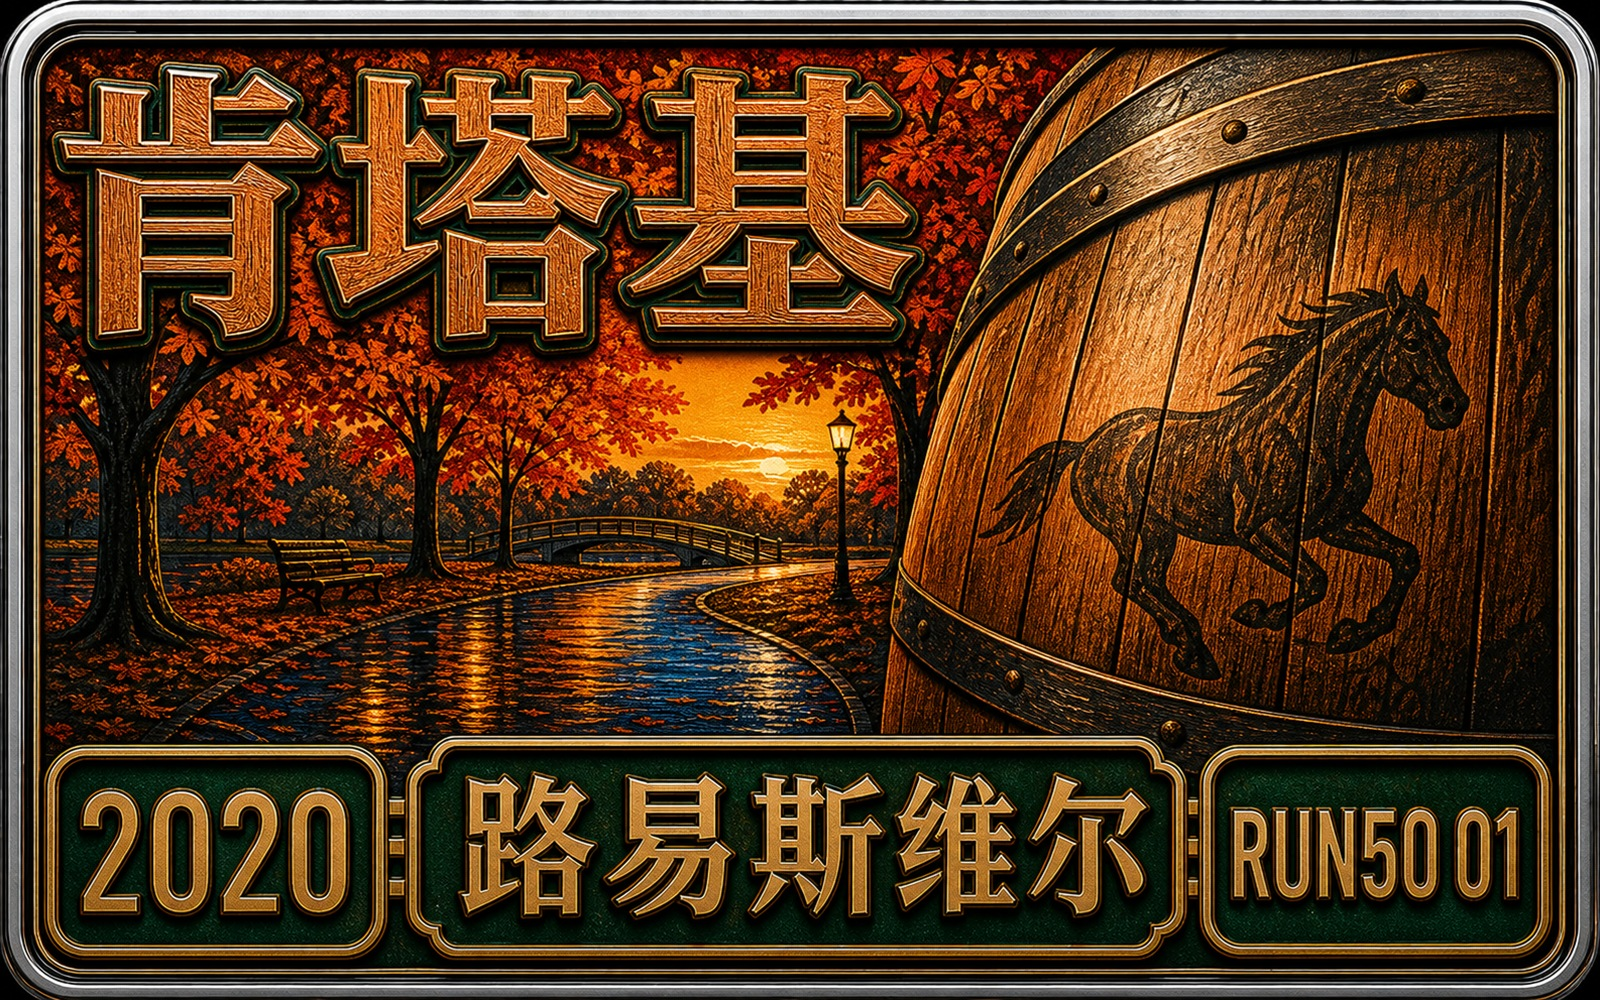
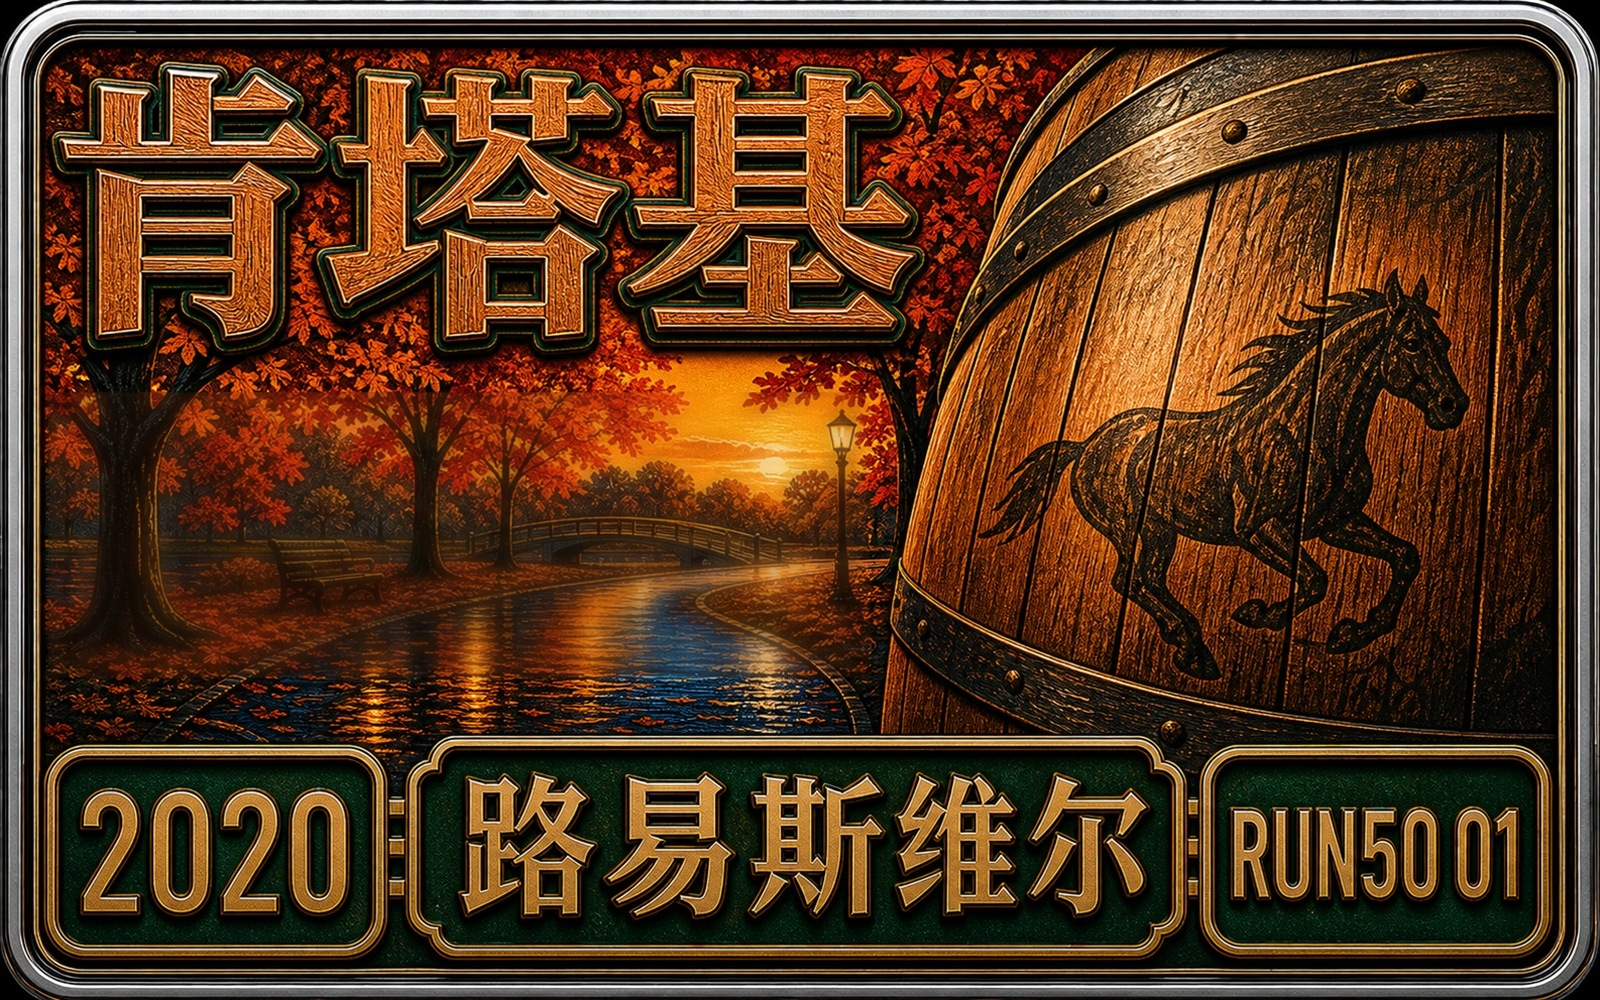
Simplify Kentucky bourbon cover

Changed region(s): [[0.0312, 0.372, 0.5625, 0.682]]

diff --git a/run50/wechat-new/index.html b/run50/wechat-new/index.html
@@ -1097,7 +1097,7 @@
 
         <div class="stories" aria-label="Run50 美国50州微信公众号故事">
           <a class="story-card" href="https://zhennanzhang.com/run50/wechat/louisville-marathon-modern-rail.html?v=20260630-wechat-emphasis">
-            <img src="../../assets/cover-medal-zh-index-louisville-cn-flat.jpg?v=20260701-ky-mo-v1" alt="Run50 #第1州｜肯塔基：路易斯维尔马拉松｜北美的第一个全马封面">
+            <img src="../../assets/cover-medal-zh-index-louisville-cn-flat.jpg?v=20260701-bourbon-v2" alt="Run50 #第1州｜肯塔基：路易斯维尔马拉松｜北美的第一个全马封面">
             <div class="story-body">
               <span class="story-number">Run50 · 01</span>
               <div class="eyebrow">RUN50 DISPATCH · KENTUCKY</div>

diff --git a/run50/wechat/index.html b/run50/wechat/index.html
@@ -44,7 +44,7 @@
     <section class="grid" aria-label="WeChat editions">
 
       <a class="card" href="louisville-marathon-modern-rail.html?v=20260627-wechat-batch">
-        <img class="cover" src="../../assets/cover-medal-zh-index-louisville-cn-flat.jpg?v=20260701-ky-mo-v1" alt="Run50 #第1州｜肯塔基：路易斯维尔马拉松｜北美的第一个全马奖牌封面">
+        <img class="cover" src="../../assets/cover-medal-zh-index-louisville-cn-flat.jpg?v=20260701-bourbon-v2" alt="Run50 #第1州｜肯塔基：路易斯维尔马拉松｜北美的第一个全马奖牌封面">
         <div class="body">
           <p class="meta">RUN50 DISPATCH · KENTUCKY</p>
           <h2>Run50 #第1州｜肯塔基：路易斯维尔马拉松｜北美的第一个全马</h2>

diff --git a/run50/stories/chinese/index.html b/run50/stories/chinese/index.html
@@ -651,7 +651,7 @@
       <div class="story-grid" aria-label="美国50州马拉松故事">
 
         <a class="story-card run-50" href="./louisville-marathon.html">
-                <img src="../../../assets/cover-medal-zh-index-louisville-cn-flat.jpg?v=20260701-ky-mo-v1" alt="路易斯维尔马拉松奖牌封面" loading="lazy" decoding="async">
+                <img src="../../../assets/cover-medal-zh-index-louisville-cn-flat.jpg?v=20260701-bourbon-v2" alt="路易斯维尔马拉松奖牌封面" loading="lazy" decoding="async">
                 <div class="story-copy">
                   <p class="story-meta">肯塔基路易斯维尔 · 2020.11.08</p>
                   <h2 class="story-title">Run50 #第1州｜路易斯维尔马拉松</h2>
